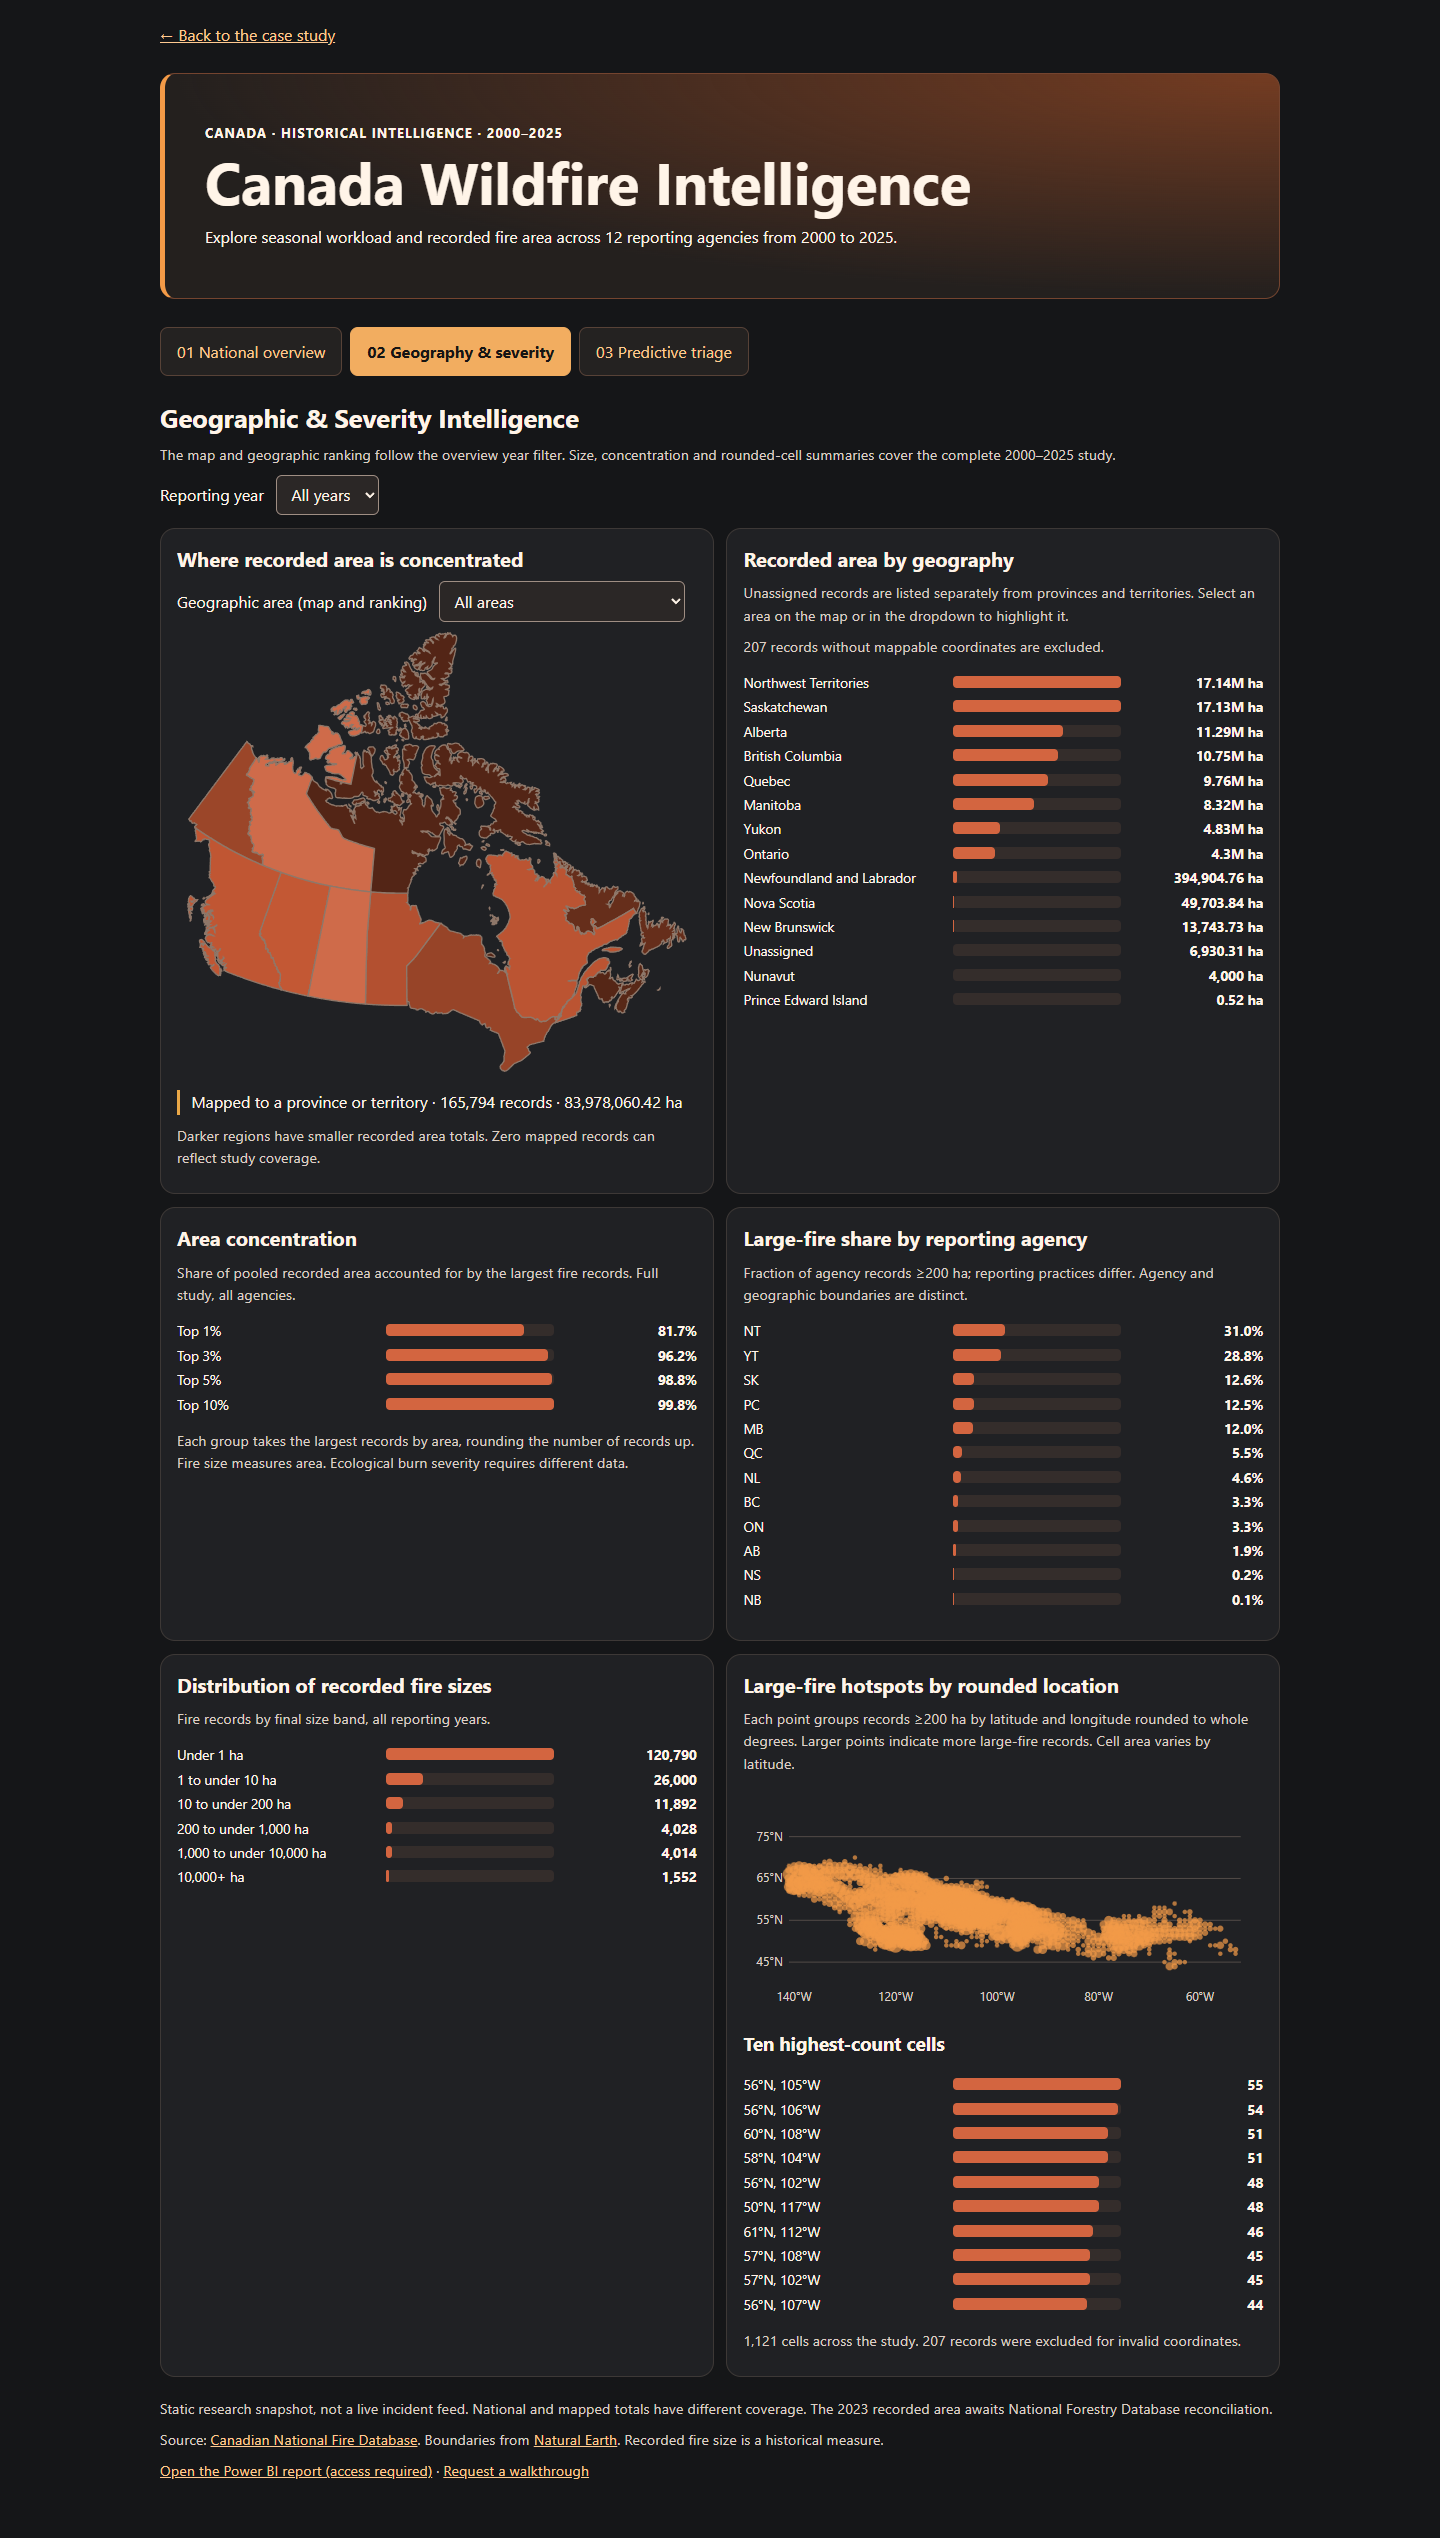
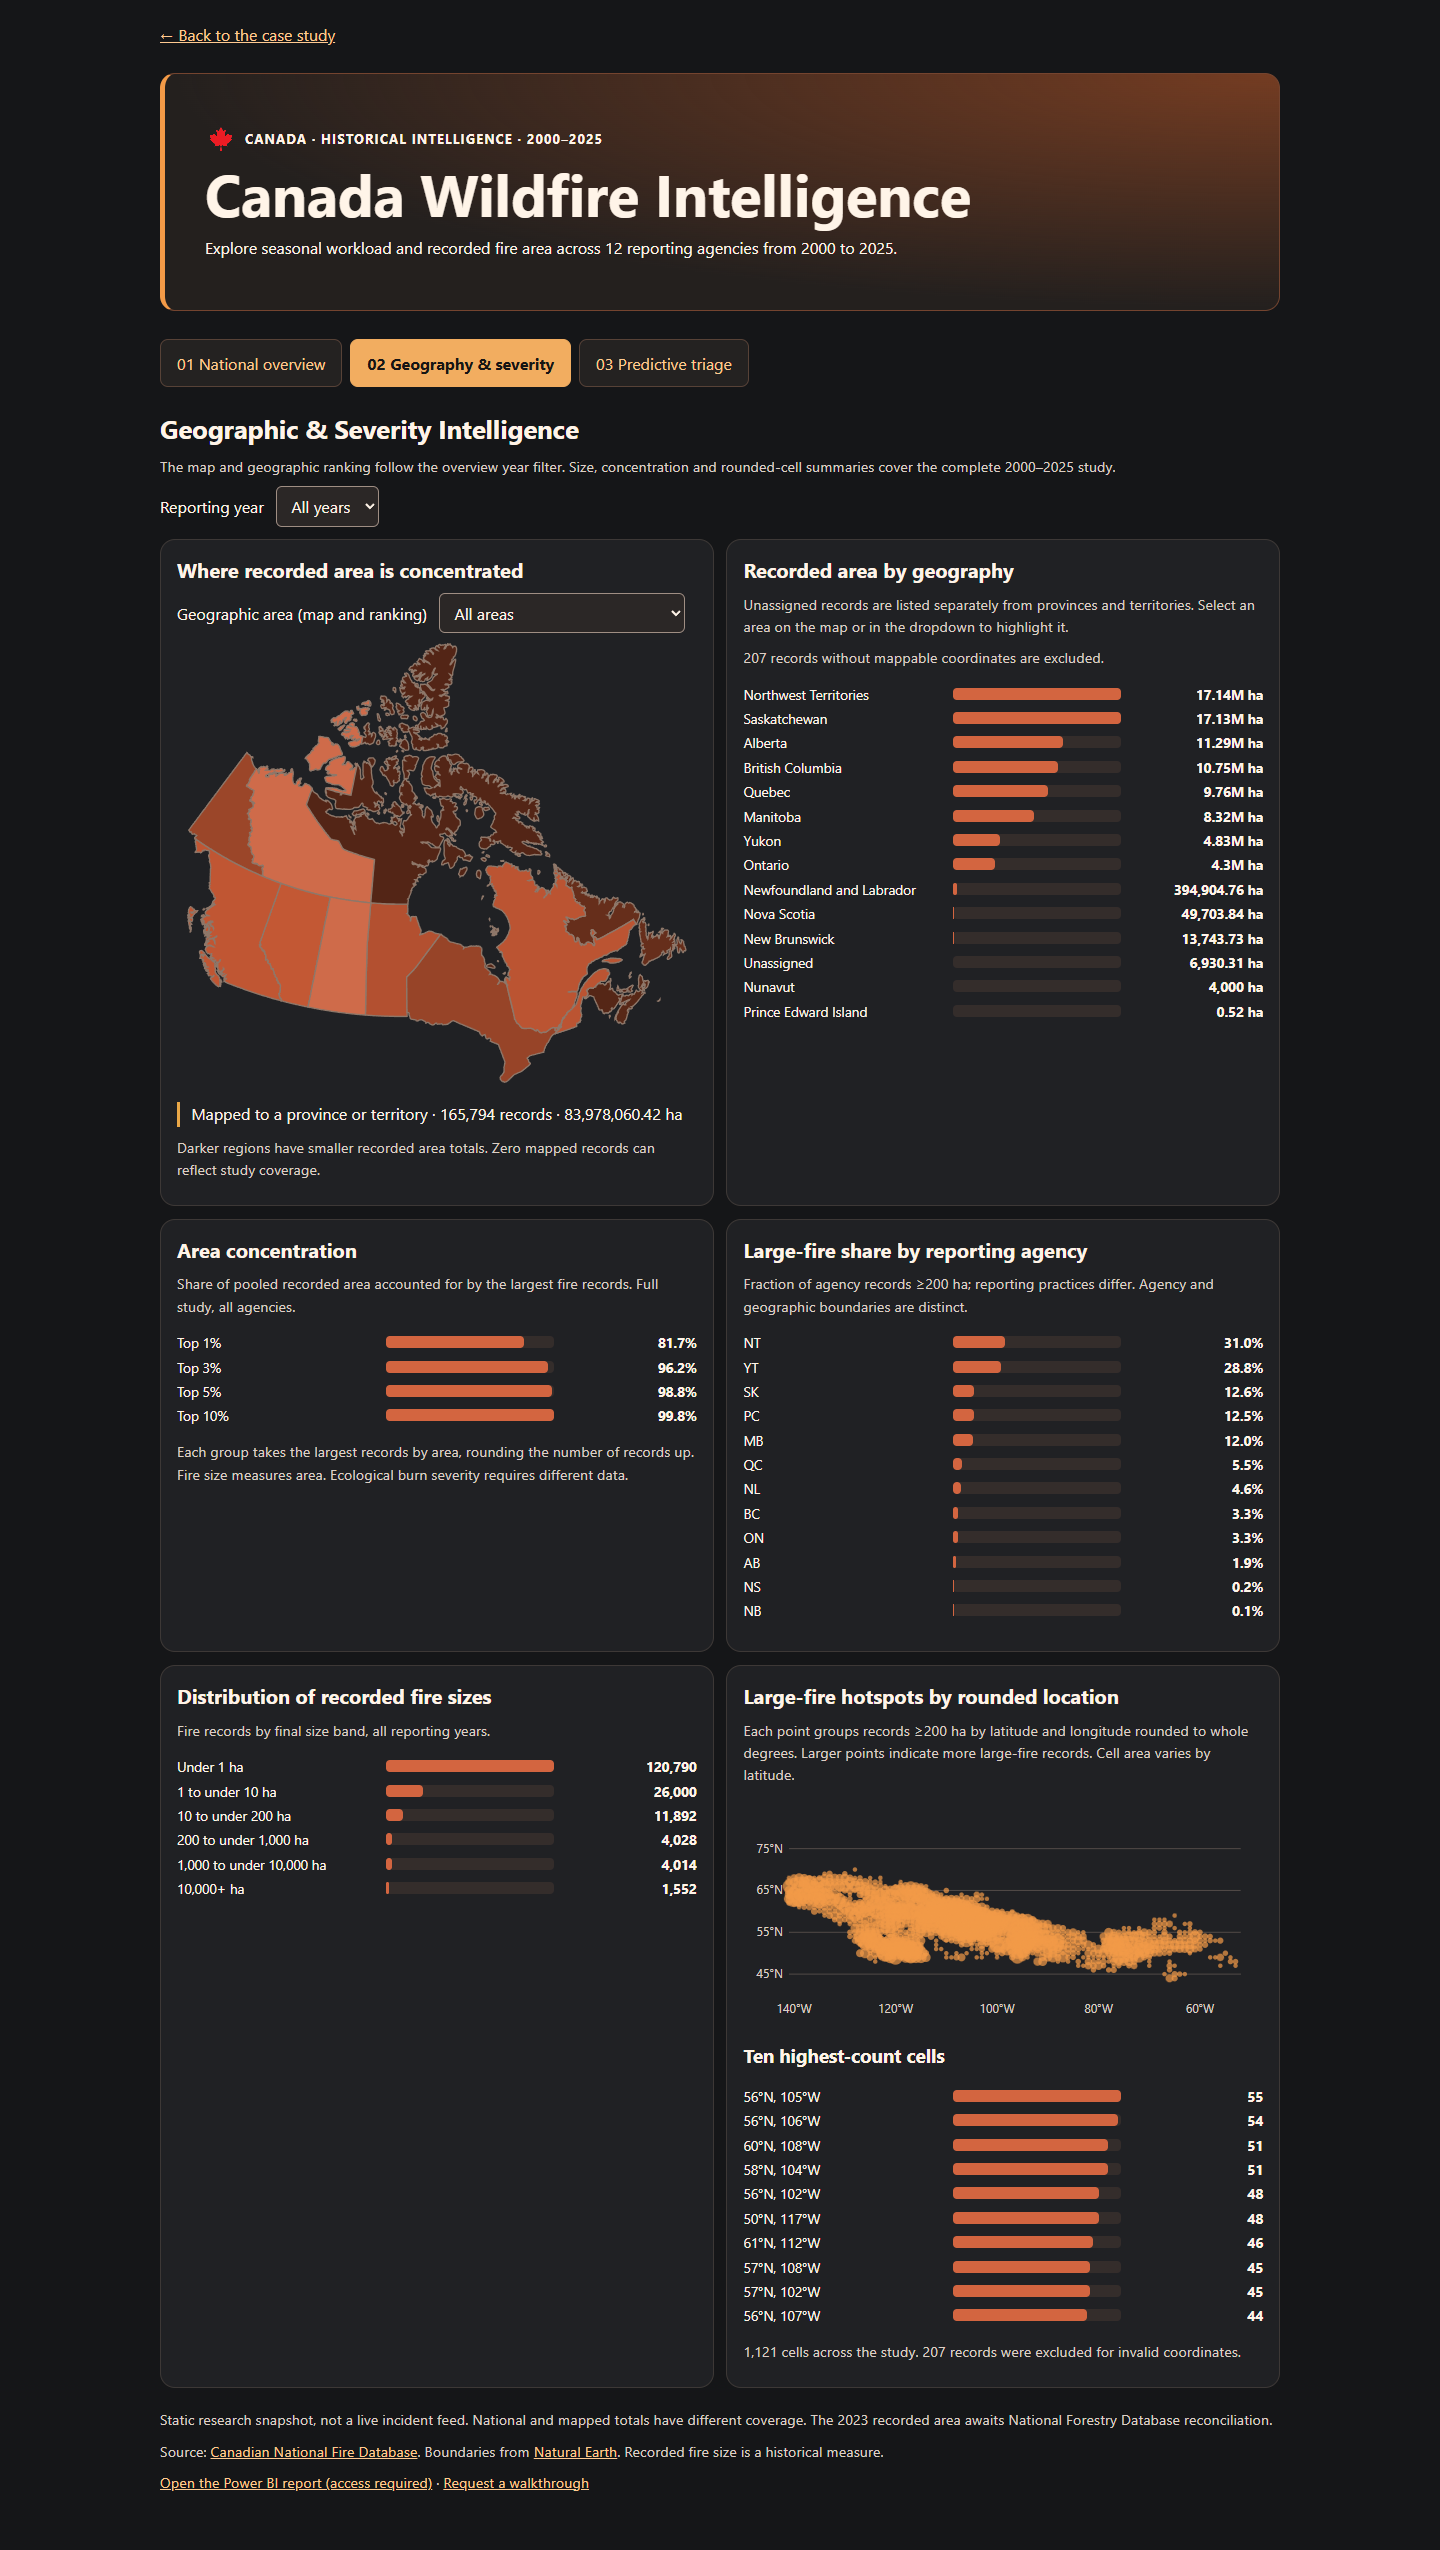
Add supplied maple leaf to wildfire dashboard

diff --git a/wildfire-triage/dashboard/dashboard.css b/wildfire-triage/dashboard/dashboard.css
@@ -8,6 +8,8 @@ h2 { font-size: 1.25rem; margin: 0 0 .6rem; }
 p { line-height: 1.55; margin: .55rem 0; }
 a { color: #ffca91; }
 .eyebrow { font-size: .82rem; letter-spacing: .08em; text-transform: uppercase; font-weight: 700; }
+header .eyebrow { display: flex; align-items: center; gap: .5rem; }
+.canada-mark { flex: none; object-fit: cover; }
 .controls { display: flex; flex-wrap: wrap; align-items: center; gap: .55rem .75rem; }
 select, button { max-width: 100%; color: inherit; font: inherit; padding: .48rem .65rem; background: #2b2726; border: 1px solid #9f8e83; border-radius: 6px; }
 button { cursor: pointer; }

diff --git a/wildfire-triage/dashboard/index.html b/wildfire-triage/dashboard/index.html
@@ -13,7 +13,7 @@
   <main>
     <nav aria-label="Portfolio"><a href="../#executive-summary">← Back to the case study</a></nav>
     <header>
-      <p class="eyebrow">Canada · Historical intelligence · 2000–2025</p>
+      <p class="eyebrow"><img class="canada-mark" src="maple-leaf.png" width="32" height="32" alt="">Canada · Historical intelligence · 2000–2025</p>
       <h1>Canada Wildfire Intelligence</h1>
       <p>Explore seasonal workload and recorded fire area across 12 reporting agencies from 2000 to 2025.</p>
     </header>
